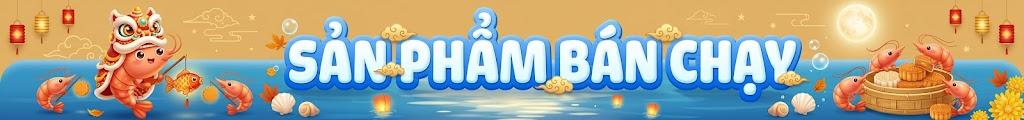
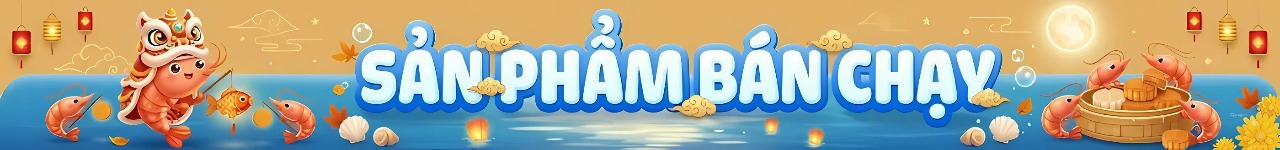
Refine best-selling section artwork

diff --git a/components/site/HomeBestSellingProductsSection.tsx b/components/site/HomeBestSellingProductsSection.tsx
@@ -29,14 +29,15 @@ export default function HomeBestSellingProductsSection({
   return (
     <section className={`${HOME_CONTENT_CONTAINER_CLASS} mt-5`}>
       <div className="overflow-hidden rounded-[8px] bg-[#3f67a6] shadow-[0_18px_38px_rgba(31,82,145,0.22)]">
-        <div className="relative aspect-[28/5] min-h-[92px] overflow-hidden bg-[#69aaf0] sm:min-h-[128px] lg:max-h-[220px]">
+        <div className="overflow-hidden bg-[#69aaf0]">
           <Image
             src={BEST_SELLING_HEADER_IMAGE}
             alt="Sản phẩm bán chạy"
-            fill
+            width={1280}
+            height={160}
             priority
             sizes="(min-width: 1440px) 1440px, 100vw"
-            className="object-cover object-center"
+            className="h-auto w-full object-contain"
           />
         </div>
 
@@ -45,16 +46,16 @@ export default function HomeBestSellingProductsSection({
             <div className="grid grid-cols-2 gap-3 sm:grid-cols-3 lg:grid-cols-5 xl:gap-5">
               {visibleProducts.map((product, index) => (
                 <div key={product.id} className="relative min-w-0">
-                  <div className="absolute left-2 top-2 z-20 h-11 w-28 overflow-hidden rounded-[8px] bg-white/95 shadow-md">
+                  <div className="absolute left-2 top-2 z-20 h-8 w-20 overflow-hidden rounded-[6px] bg-white/95 shadow-sm">
                     <Image
                       src={BEST_SELLING_BADGE_IMAGE}
                       alt="Bán chạy"
                       fill
-                      sizes="112px"
-                      className="scale-[2.35] object-cover object-[72%_63%] mix-blend-multiply"
+                      sizes="80px"
+                      className="scale-[1.65] object-cover object-[73%_65%] mix-blend-multiply"
                     />
                   </div>
-                  <div className="absolute left-2 top-[50px] z-20 rounded-r-full rounded-tl-[8px] bg-[#de4c38] px-2.5 py-1 text-xs font-extrabold text-white shadow-md">
+                  <div className="absolute left-2 top-[38px] z-20 rounded-r-full rounded-tl-[6px] bg-[#de4c38] px-2 py-0.5 text-[11px] font-extrabold text-white shadow-sm">
                     #{index + 1}
                   </div>
                   {Number(product.soldCount ?? 0) > 0 && (
